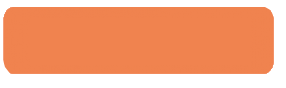
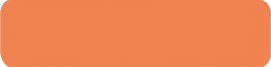
Dépose et retrait de tourelles/ennemis+boutons raccourcis

Changed region(s): [[0.0, 0.0, 1.0, 1.0]]

diff --git a/src/gui/Buttons/TurretButton.java b/src/gui/Buttons/TurretButton.java
@@ -119,7 +119,7 @@ public class TurretButton extends MouseOverArea {
 
     public void update() {
         over = this.hitbox.contains(config.getMx(), config.getMy());
-        if(over){
+        if(over && game.getCurrentState().getID()==1){
             if (config.isMouseClicked() && (System.currentTimeMillis()-config.clickPing)<=20) {
                 if (config.getTurretMenu().turretMode) {
                     if(config.getTurret()==null){
@@ -132,19 +132,24 @@ public class TurretButton extends MouseOverArea {
                         config.setSelectedTurret(null);
                     }
                     config.setSelectedEnemy(null);
-                    System.out.println("turret null? " + (this.turret == null));
                 } else {
-                    config.setSelectedEnemy(this.enemy);
-                    config.setSelectedTurret(null);
-                    System.out.println("enemy null? " + (this.enemy == null));
+                    if(config.getEnemy()==null){
+                        config.setSelectedEnemy(this.enemy);
+                        config.setSelectedTurret(null);
+                    }
+                    else if(config.getEnemy().getType()!=this.enemy.getType()){
+                        config.setSelectedEnemy(this.enemy);
+                        config.setSelectedTurret(null);
+                    }
+                    else if(config.getEnemy().getType()==this.enemy.getType()){
+                        config.setSelectedEnemy(null);
+                        config.setSelectedTurret(null);
+                    }
                 }
                 //config.getMap().addClickedButtons(this);
                 //clicked=true;
             }
         }
-        //System.out.println(pass);
-        pass++;
-        if(pass >=8){pass=0;} //TODO utiliser le temps plutot
     }
 
     public void reset(){clicked=false;}

diff --git a/src/gui/Buttons/StateButton.java b/src/gui/Buttons/StateButton.java
@@ -39,7 +39,7 @@ public class StateButton extends MouseOverArea{
         this.height=image.getHeight();
         this.action=action;
         this.text=text;
-        this.hitbox = new RoundedRectangle(x+3,y+7,image.getWidth()-14,image.getHeight()-20,13);
+        this.hitbox = new RoundedRectangle(x,y,image.getWidth(),image.getHeight(),13);
         this.container=game.getContainer();
         this.config = GameConfig.getInstance(sbg);
     }
@@ -47,7 +47,9 @@ public class StateButton extends MouseOverArea{
     public void render(Graphics g) {
         this.render(container, g);
         g.setColor(Color.white);
-        g.drawString(text, (int)(x + hitbox.getWidth() / 2 -60), (int)(y + hitbox.getHeight() / 2-20)); //Affiche le texte du bouton, centré
+        if(text!=null) {
+            g.drawString(text, (int) (x + hitbox.getWidth() / 2 - 60), (int) (y + hitbox.getHeight() / 2 - 20)); //Affiche le texte du bouton, centré
+        }
         g.setLineWidth(1);
         g.draw(hitbox);
     }
@@ -65,7 +67,7 @@ public class StateButton extends MouseOverArea{
             else if((action.matches("menu"))&&(game.getCurrentStateID()==1 | game.getCurrentStateID()==0)){    //aller au menu
                 game.enterState(0);
             }
-            else if((action.matches("wave !"))&&(game.getCurrentStateID()==1)){ //Début de vague
+            else if((action.matches("wave"))&&(game.getCurrentStateID()==1)){ //Début de vague
                 game.enterState(2);
             }
             else if((action.matches("turret"))&&(game.getCurrentStateID()==1)){

diff --git a/src/states/MenuState.java b/src/states/MenuState.java
@@ -27,7 +27,8 @@ public class MenuState extends BasicGameState {
 
     //Paramètres d'interface
     private Image backgroundImage;
-    private Image imgBouton;
+    private Image imgBoutonStart;
+    private Image imgBoutonExit;
     private StateButton startButton;
     private StateButton exitButton;
     private SpriteSheet piz;
@@ -71,10 +72,11 @@ public class MenuState extends BasicGameState {
             font=font.deriveFont(font.getSize()*45f);
             ttf=new TrueTypeFont(font, true);
             backgroundImage=FileLoader.getImage("interface/bgi.png");
-            imgBouton=FileLoader.getImage("interface/boutonOrange.png");
+            imgBoutonStart =FileLoader.getImage("interface/boutonDemarrer.png");
+            imgBoutonExit =FileLoader.getImage("interface/boutonQuitter.png");
             piz=new SpriteSheet(FileLoader.getSpriteImage("Piz.png"), 256,256);
-            startButton = new StateButton(game, imgBouton, winWidth/2-152,winHeight/2-55, "Demarrer", "start");
-            exitButton=new StateButton(game, imgBouton, winWidth/2-152,winHeight/2+50, "Quitter", "quit");
+            startButton = new StateButton(game, imgBoutonStart, winWidth/2-152,winHeight/2-55, null, "start");
+            exitButton=new StateButton(game, imgBoutonExit, winWidth/2-152,winHeight/2+50, null, "quit");
         } catch (URISyntaxException | FontFormatException | IOException e) {
             e.printStackTrace();
         }

diff --git a/src/states/GameStates.java b/src/states/GameStates.java
@@ -1,6 +1,7 @@
 package states;
 
 import org.newdawn.slick.GameContainer;
+import org.newdawn.slick.Input;
 import org.newdawn.slick.SlickException;
 import org.newdawn.slick.state.StateBasedGame;
 
@@ -11,6 +12,8 @@ import org.newdawn.slick.state.StateBasedGame;
 
 public class GameStates extends StateBasedGame{
 
+    int currentState;
+    int lastState;
     public GameStates(String name) {
         super(name);
     }
@@ -24,4 +27,23 @@ public class GameStates extends StateBasedGame{
         this.enterState(1);
     }
 
+    @Override
+    /**
+     * Méthode qui est utilisée quand une touche est appuyée, pour les raccourcis claviers disponibles partout
+     * (echappe = quitter, espace = aller au menu/en revenir)
+     */
+    public void keyPressed(int key, char c) {
+        if (key == Input.KEY_ESCAPE) {
+            this.getContainer().exit();
+        }
+        if (key == Input.KEY_SPACE) {
+            currentState=this.getCurrentStateID();
+            if (currentState != 0) {
+                lastState=currentState;
+                this.enterState(0);
+            } else {
+                this.enterState(lastState);
+            }
+        }
+    }
 }

diff --git a/src/states/MainGameState.java b/src/states/MainGameState.java
@@ -148,20 +148,6 @@ public class MainGameState extends BasicGameState {
     }
 
     /**
-     * Méthode pour pouvoir changer d'état plus rapidement ou quitter, avec le clavier
-     * @param key Touche appuyée
-     * @param c charactère reçu
-     */
-    public void keyPressed(int key, char c){
-        if(key== Input.KEY_ESCAPE){
-            container.exit();
-        }
-        if(key==Input.KEY_SPACE){
-            game.enterState(0);
-        }
-    }
-
-    /**
      * Méthode donnant les mouvements de la sourie
      * @param oldX
      * @param oldY

diff --git a/src/states/GameConfig.java b/src/states/GameConfig.java
@@ -6,6 +6,7 @@ import obj.Enemy;
 import obj.Turret;
 import org.lwjgl.input.Mouse;
 import org.newdawn.slick.GameContainer;
+import org.newdawn.slick.Input;
 import org.newdawn.slick.SlickException;
 import org.newdawn.slick.state.StateBasedGame;
 
@@ -111,7 +112,7 @@ public class GameConfig {
     }
 
     public boolean isMouseClicked() {
-        mouseClicked=Mouse.isButtonDown(0);
+        mouseClicked=Mouse.isButtonDown(Input.MOUSE_LEFT_BUTTON);
         if(!mouseClicked){
             this.clickPing=System.currentTimeMillis();
         }

diff --git a/src/gui/TurretMenu.java b/src/gui/TurretMenu.java
@@ -22,6 +22,7 @@ public class TurretMenu {
     private StateBasedGame game;
     private GameConfig config;
 
+    //Si true, mode pose de tourelles, si false, pose d'ennemis
     public boolean turretMode=true;
 
     private ArrayList<TurretButton> turretButtons;
